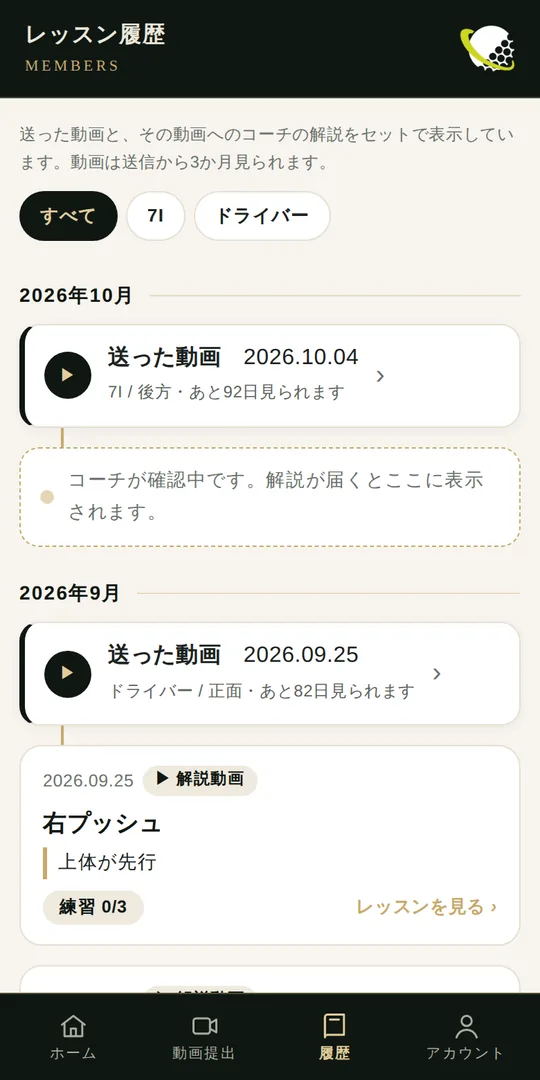
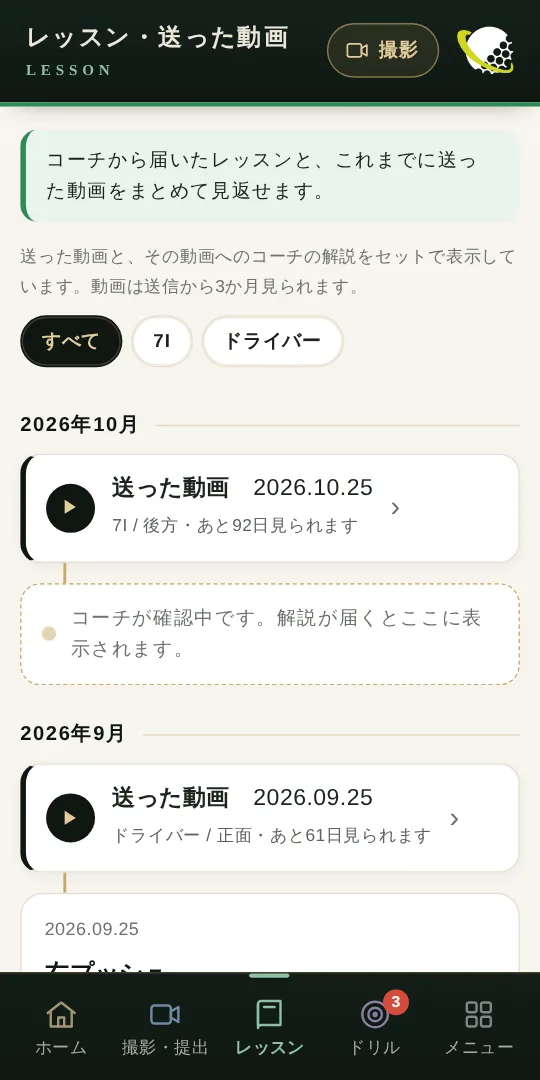
ホームページを見やすく：数字の字体・会員ページの画面・たためる項目・スライド間隔
- STEP 01 などの数字を読みやすい字体に
- 会員ページの画面イメージを今のアプリの画面に差し替え
- 特徴・レッスンの進め方・会員ページの画面・プランの内容をたためる形に
- コーチ紹介のスライド間隔を3秒に

Claude-Session: https://claude.ai/code/session_01NC437QVh9gZ1gjX5RHEKJ2

diff --git a/index.html b/index.html
@@ -97,7 +97,7 @@ section{padding:96px 0}
 .feature{position:relative}
 .feature .ico{width:64px;height:64px;margin:0 auto;border-radius:50%;background:var(--ink);color:var(--gold-2);display:grid;place-items:center;box-shadow:0 8px 20px rgba(15,23,18,.15)}
 .feature .ico svg{width:30px;height:30px}
-.feature .num{position:absolute;top:16px;right:20px;font-family:var(--latin);font-size:22px;color:var(--gold-deep);line-height:1;font-weight:600}
+.feature .num{position:absolute;top:16px;right:20px;font-family:var(--sans);font-variant-numeric:lining-nums tabular-nums;font-size:20px;color:var(--gold-deep);line-height:1;font-weight:700;letter-spacing:.04em}
 .feature h3{font-family:var(--serif);font-size:19px;margin:14px 0 10px;letter-spacing:.06em}
 .feature p{margin:0;color:var(--muted);font-size:14.5px}
 
@@ -107,7 +107,7 @@ section{padding:96px 0}
 .flow .lead{color:var(--on-dark-muted)}
 .steps{list-style:none;padding:0;margin:52px 0 0;display:grid;grid-template-columns:repeat(4,1fr);gap:18px;counter-reset:step}
 .step{border:1px solid var(--gold-line);border-radius:var(--radius);padding:28px 22px;position:relative;background:linear-gradient(180deg,rgba(255,255,255,.02),transparent)}
-.step::before{counter-increment:step;content:"STEP " counter(step,decimal-leading-zero);font-family:var(--latin);letter-spacing:.2em;color:var(--gold-2);font-size:15px;font-weight:600}
+.step::before{counter-increment:step;content:"STEP " counter(step,decimal-leading-zero);font-family:var(--sans);font-variant-numeric:lining-nums tabular-nums;letter-spacing:.16em;color:var(--gold-2);font-size:14px;font-weight:700}
 .step h3{font-family:var(--serif);font-size:18px;margin:10px 0 8px;color:#fff}
 .step p{margin:0;font-size:14px;color:var(--on-dark-muted)}
 .who{position:absolute;top:24px;right:18px;font-size:11px;letter-spacing:.1em;padding:2px 10px;border-radius:999px}
@@ -213,9 +213,9 @@ section{padding:96px 0}
 .cs-dots button{width:26px;height:4px;border:0;border-radius:2px;background:rgba(255,255,255,.25);padding:0;cursor:pointer;position:relative;overflow:hidden}
 .cs-dots button::after{content:'';position:absolute;inset:0;width:0;background:var(--gold)}
 .cs-dots button.on::after{width:100%}
-.cs.playing .cs-dots button.on::after{width:0;animation:cs-prog 5s linear forwards}
+.cs.playing .cs-dots button.on::after{width:0;animation:cs-prog 3s linear forwards}
 @keyframes cs-prog{to{width:100%}}
-.cs-count{font-family:var(--latin);font-size:13px;color:var(--on-dark-muted);letter-spacing:.1em;min-width:56px}
+.cs-count{font-family:var(--sans);font-variant-numeric:lining-nums tabular-nums;font-size:13px;color:var(--on-dark-muted);letter-spacing:.1em;min-width:56px}
 .cs-count b{color:#fff;font-size:18px}
 @media (prefers-reduced-motion:reduce){.cs-track{scroll-behavior:auto}.cs-slide .coach-ph img{transition:none}.cs-slide.on .coach-ph img{transform:none}}
 /* 運営スクールのロゴ */
@@ -227,6 +227,23 @@ section{padding:96px 0}
 
 /* FAQ */
 .faq-list{max-width:760px;margin:44px auto 0}
+/* たためる部分（優先度が低いもの） */
+.fold{margin-top:30px}
+.fold>summary{list-style:none}
+.fold>summary::-webkit-details-marker{display:none}
+.fold-btn{display:flex;align-items:center;justify-content:center;gap:10px;width:fit-content;margin:0 auto;cursor:pointer;border:1px solid var(--gold);border-radius:999px;padding:11px 26px;font-weight:700;font-size:14.5px;color:var(--gold-deep);background:rgba(255,255,255,.6);transition:background .2s}
+.fold-btn::after{content:"";width:8px;height:8px;border-right:1.5px solid currentColor;border-bottom:1.5px solid currentColor;transform:translateY(-2px) rotate(45deg);transition:transform .2s}
+.fold[open]>.fold-btn::after{transform:translateY(2px) rotate(-135deg)}
+.fold-btn:hover{background:#fff}
+.fold-btn .fc,.fold[open]>.fold-btn .fo{display:none}
+.fold[open]>.fold-btn .fc{display:inline}
+.fold[open]>.fold-btn{margin-bottom:6px}
+.flow .fold-btn{color:var(--gold-2);background:transparent}
+.flow .fold-btn:hover{background:rgba(200,169,106,.12)}
+.fold-sm{margin:14px 0 18px;text-align:left}
+.fold-sm>.fold-btn{padding:8px 18px;font-size:13.5px}
+.fold .steps,.fold .features{margin-top:30px}
+.plan .fold-sm{flex:1}.plan .fold-sm>.fold-btn{margin:0}.plan .fold-sm ul{margin-top:14px}
 .faq-list details{border-bottom:1px solid var(--paper-2);padding:6px 0}
 .faq-list summary{list-style:none;cursor:pointer;padding:18px 40px 18px 0;font-weight:700;position:relative;font-size:15px}
 .faq-list summary::-webkit-details-marker{display:none}
@@ -395,12 +412,13 @@ section{padding:96px 0}
       <p class="eyebrow reveal">Online Lesson</p>
       <h2 class="h2 reveal">練習場でも、自宅でも。<br>オンラインだから続けやすい。</h2>
       <p class="lead reveal">レッスンのやり取りは、すべてスマートフォンで。通う時間や予約の手間をかけずに、PGAプロの指導を受けられます。</p>
+      <details class="fold reveal"><summary class="fold-btn"><span class="fo">4つの特徴を見る</span><span class="fc">閉じる</span></summary>
       <div class="features four">
         <div class="feature reveal"><div class="num">01</div><div class="ico"><svg viewBox="0 0 24 24" fill="none" stroke="currentColor" stroke-width="1.6" stroke-linecap="round" stroke-linejoin="round" aria-hidden="true"><rect x="6" y="2.5" width="12" height="19" rx="2.5"/><circle cx="12" cy="10" r="3"/><path d="M10 18.5h4"/></svg></div><h3>撮って送るだけ</h3><p>練習場や自宅でスイングを撮影して、会員ページから送るだけ。撮影機能付きなので、スマホひとつで始められます。</p></div>
         <div class="feature reveal"><div class="num">02</div><div class="ico"><svg viewBox="0 0 24 24" fill="none" stroke="currentColor" stroke-width="1.6" stroke-linecap="round" stroke-linejoin="round" aria-hidden="true"><circle cx="12" cy="12" r="9"/><path d="M12 7v5l3 2"/></svg></div><h3>通う時間ゼロ</h3><p>移動も予約もいりません。仕事や家事の合間など、空いた時間で自分のペースでレッスンを受けられます。</p></div>
         <div class="feature reveal"><div class="num">03</div><div class="ico"><svg viewBox="0 0 24 24" fill="none" stroke="currentColor" stroke-width="1.6" stroke-linecap="round" stroke-linejoin="round" aria-hidden="true"><rect x="3" y="5" width="18" height="12" rx="2"/><path d="M10 8.5v5l4.5-2.5z"/><path d="M8 21h8"/></svg></div><h3>何度でも見返せる</h3><p>プロの解説と練習ドリルは会員ページに残ります。練習の前に、いつでも、何度でも確認できます。</p></div>
         <div class="feature reveal"><div class="num">04</div><div class="ico"><svg viewBox="0 0 24 24" fill="none" stroke="currentColor" stroke-width="1.6" stroke-linecap="round" stroke-linejoin="round" aria-hidden="true"><path d="M4 19V5"/><path d="M4 19h16"/><path d="m7 15 4-4 3 3 5-6"/></svg></div><h3>上達が記録に残る</h3><p>送った動画とレッスンが順番に並ぶので、以前の自分と比べて成長を実感できます。スコアの記録も付けられます。</p></div>
-      </div>
+      </div></details>
     </div>
   </section>
 
@@ -410,12 +428,13 @@ section{padding:96px 0}
       <p class="eyebrow reveal">Lesson Flow</p>
       <h2 class="h2 reveal">レッスンの進め方</h2>
       <p class="lead reveal">この流れをくり返しながら、一つずつ課題をクリアしていきます。</p>
+      <details class="fold reveal"><summary class="fold-btn"><span class="fo">レッスンの流れを見る</span><span class="fc">閉じる</span></summary>
       <ol class="steps">
         <li class="step reveal"><span class="who you">受講者</span><h3>スイング動画を撮影・送信</h3><p>スイング動画を撮影して送信。気になっていることやお悩みも、文章でお送りください。</p></li>
         <li class="step reveal"><span class="who coach">運営側</span><h3>チェック・解説動画を送付</h3><p>提出動画をチェックし、課題や練習法を解説する動画を作成してお届けします。</p></li>
         <li class="step reveal"><span class="who you">受講者</span><h3>内容を確認して練習</h3><p>解説動画の内容を確認し、練習に取り組みます。</p></li>
         <li class="step reveal"><span class="who you">受講者</span><h3>再度動画を撮影・送信</h3><p>練習の達成度合いを確認するため、もう一度動画を送信。新たな課題の質問などもお送りください。</p></li>
-      </ol>
+      </ol></details>
     </div>
   </section>
 
@@ -425,21 +444,22 @@ section{padding:96px 0}
       <p class="eyebrow reveal">Member's Page</p>
       <h2 class="h2 reveal">レッスンは、専用の会員ページに届きます。</h2>
       <p class="lead reveal">スマートフォンでいつでも確認。送った動画、コーチの解説、練習メニューまで、すべてここにまとまります。</p>
-      <div class="screens reveal">
+      <details class="fold reveal"><summary class="fold-btn"><span class="fo">会員ページの画面を見る</span><span class="fc">閉じる</span></summary>
+      <div class="screens">
         <figure class="screen">
-          <div class="phone"><img src="assets/screens/home.webp" width="540" height="1080" loading="lazy" alt="マイページの画面。目標、スコア、今月の動画提出数と次回の面談日時が表示されている"></div>
-          <figcaption><b>マイページ</b><span>今月の提出数や次回の面談が、ひと目で分かります。</span></figcaption>
+          <div class="phone"><img src="assets/screens/home.webp" width="540" height="1080" loading="lazy" alt="マイページの画面。次にやること、目標、今月のドリルが表示されている"></div>
+          <figcaption><b>マイページ</b><span>次にやることや今月のドリルが、ひと目で分かります。</span></figcaption>
         </figure>
         <figure class="screen">
-          <div class="phone"><img src="assets/screens/lesson.webp" width="540" height="1080" loading="lazy" alt="レッスン詳細の画面。今回の診断とコーチの解説動画が表示されている"></div>
+          <div class="phone"><img src="assets/screens/lesson.webp" width="540" height="1080" loading="lazy" alt="レッスン詳細の画面。今回の診断と、解説動画・フィードバック・練習へのボタンが表示されている"></div>
           <figcaption><b>レッスン</b><span>診断・解説動画・練習メニューがまとめて届きます。</span></figcaption>
         </figure>
         <figure class="screen">
-          <div class="phone"><img src="assets/screens/history.webp" width="540" height="1080" loading="lazy" alt="レッスン履歴の画面。送った動画とその解説が月ごとに並んでいる"></div>
+          <div class="phone"><img src="assets/screens/history.webp" width="540" height="1080" loading="lazy" alt="レッスンと送った動画の画面。送った動画とその解説が月ごとに並んでいる"></div>
           <figcaption><b>履歴</b><span>送った動画と解説をセットで、いつでも振り返れます。</span></figcaption>
         </figure>
       </div>
-      <p class="screens-note">※ 画面はイメージです。</p>
+      <p class="screens-note">※ 画面はイメージです。</p></details>
     </div>
   </section>
 
@@ -479,13 +499,14 @@ section{padding:96px 0}
             <div><dt>面談</dt><dd>月1回・25分のオンライン面談</dd></div>
           </dl>
           <div class="price">料金は近日公開<small>詳しくはお問い合わせください</small></div>
+          <details class="fold fold-sm"><summary class="fold-btn"><span class="fo">プランの内容を見る</span><span class="fc">閉じる</span></summary>
           <ul>
             <li>初回カウンセリングでスイングチェック</li>
             <li>簡易カルテでスイングレベルと課題を数値で見える化</li>
             <li>課題動画 毎月2本・練習ドリル 毎月2本</li>
             <li>AI見本動画</li>
             <li>月1回の面談で、悩み相談・進捗確認・今後のアドバイス</li>
-          </ul>
+          </ul></details>
           <a class="btn btn-gold" href="#contact">このプランを相談する</a>
         </div>
         <div class="plan reveal">
@@ -500,13 +521,14 @@ section{padding:96px 0}
             <div><dt>面談</dt><dd>年4回程度のオンライン面談</dd></div>
           </dl>
           <div class="price">料金は近日公開<small>詳しくはお問い合わせください</small></div>
+          <details class="fold fold-sm"><summary class="fold-btn"><span class="fo">プランの内容を見る</span><span class="fc">閉じる</span></summary>
           <ul>
             <li>毎月の課題動画・練習ドリル</li>
             <li>提出動画へのPGAプロの添削</li>
             <li>自分のペースで進められる（受講期限あり）</li>
             <li>面談では疑問の相談・進捗と今後の課題を確認</li>
             <li>追加の面談も可能（別途料金）</li>
-          </ul>
+          </ul></details>
           <a class="btn btn-gold" href="#contact">このプランを相談する</a>
         </div>
       </div>
@@ -695,7 +717,7 @@ function onScroll() {
 window.addEventListener('scroll', onScroll, { passive: true });
 onScroll();
 
-// コーチ紹介のスライド（5秒ごとに自動で次へ。触っている間・動きを減らす設定のときは止める）
+// コーチ紹介のスライド（3秒ごとに自動で次へ。触っている間・動きを減らす設定のときは止める）
 (() => {
   const track = document.getElementById('coachTrack');
   if (!track) return;
@@ -735,7 +757,7 @@ onScroll();
     clearInterval(timer); box.classList.remove('playing');
     if (reduce || held) return;
     void box.offsetWidth; box.classList.add('playing');
-    timer = setInterval(() => go(cur + 1), 5000);
+    timer = setInterval(() => go(cur + 1), 3000);
   }
   // 指でスクロールしたときも、いま見えている人に合わせる
   let st;
